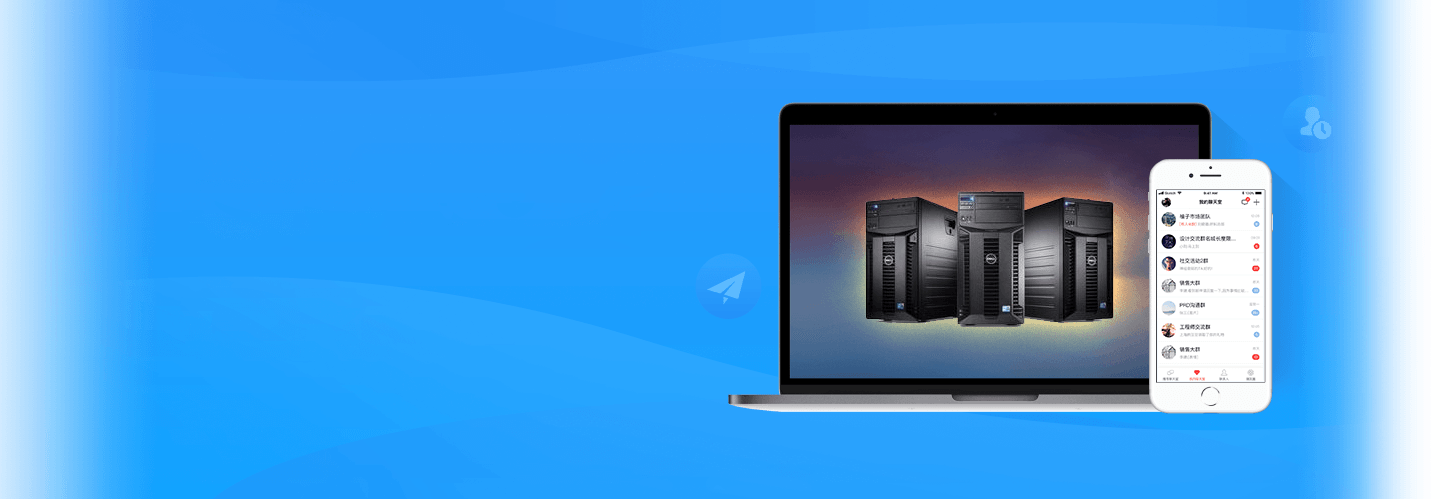
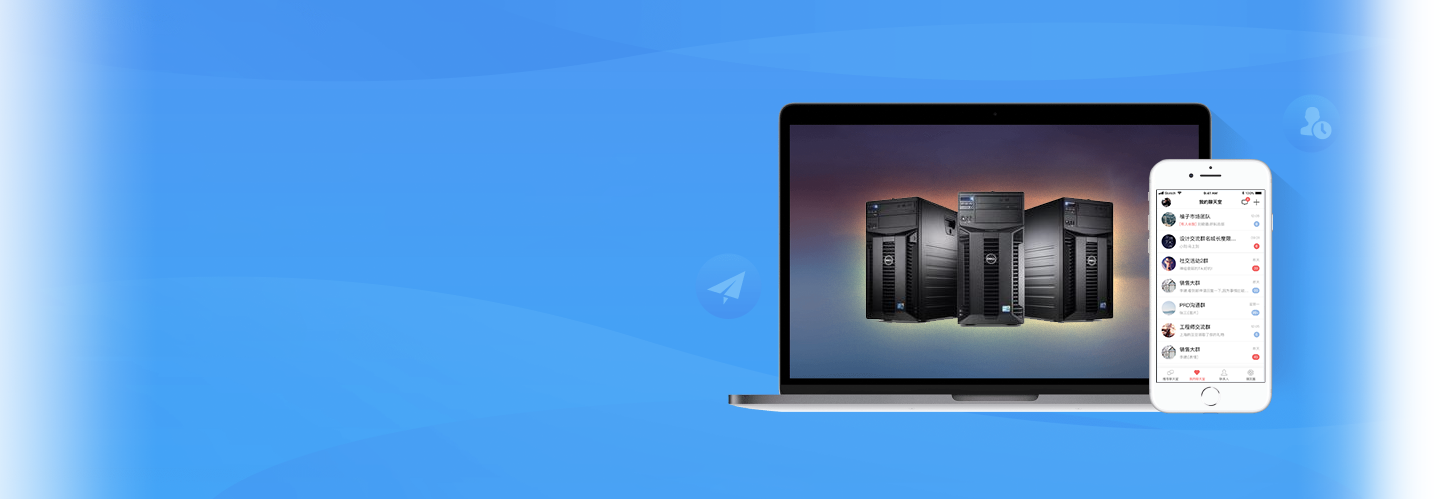
2018/08/25
2018/08/25

diff --git a/Practice4/P4_default.css b/Practice4/P4_default.css
@@ -7,7 +7,7 @@ body{margin: 0; padding: 0}
 
 /*文本样式*/
 .smallText{font: 12px 微软雅黑; text-align: center; width: 70%; margin-bottom: 20px; color: #2b2c33; font-weight: lighter}
-.importantText{font: 30px 微软雅黑; font-weight: lighter; color: #2b2c33; text-align: center}
+.importantText{font: 30px 微软雅黑; font-weight: lighter; color: #2b2c33; text-align: center;width: 70%;}
 .normalText{font: 14px 微软雅黑; text-align: center; width: 70%; margin-top: 20px; margin-bottom: 20px; color: #2b2c33}
 
 /*Flex通用布局模块*/
@@ -97,7 +97,7 @@ body{margin: 0; padding: 0}
 
 /*-------------------------------------------------------------------------------------------------------------------------------------------------*/
 /*产品功能页面的banner*/                                                                                                                 
-.PartChanpinBanner{background: #1e9cfc; margin-top: 90px}
+.PartChanpinBanner{background: #45a0f5; margin-top: 90px}
 .PartChanpinBanner .Body2{background: url(images/haiwai.png) center center no-repeat; height: 499px; background-size: auto 100%}
 .PartChanpinBanner .BodyChild{align-items: flex-start; width: 1000px}
 .PartChanpinBanner span{text-align: left; color: #ffffff}
@@ -127,4 +127,27 @@ body{margin: 0; padding: 0}
 .PartChanpin1 .Chanpin8{height: 635px; background:#d0e9ea; justify-content: flex-start}
 .PartChanpin1 .Chanpin8 img{width: 400px; margin-bottom: 30px}
 /*-------------------------------------------------------------------------------------------------------------------------------------------------*/
+
+/*-------------------------------------------------------------------------------------------------------------------------------------------------*/
+/*下载页面banner*/
+.PartDownloadBanner{background: #212337; margin-top: 90px}
+.PartDownloadBanner .Body2{background: url(images/DownLoad.png.jpg) right center no-repeat; height: 499px; background-size: 500px auto; width: 1000px; overflow: hidden}
+.PartDownloadBanner .BodyChild{align-items: flex-start}
+.PartDownloadBanner span{text-align: left; color: #ffffff}
+/*下载页面的css*/
+.PartDownload{margin-top: 90px}
+.PartDownload .BodyChild img{width: 280px}
+.PartDownload .BodyChild > div{width: 49%;  height: 1000px}
+.PartDownload .DownloadPart1{background: #faf7eb}
+.PartDownload .DownloadPart2{background: #faf7eb}
+.PartDownloadBanner .DownButton {text-decoration: none}
+.PartDownload .MobileDown{width: 80%; height: 350px; margin-top: 60px; margin-bottom: 60px}
+.PartDownload .MobileDown div{width: 130px; height: 100%; justify-content: flex-end}
+.PartDownload .MobileDown img{width: 100%; margin-bottom: 30px}
+.PartDownload .MobileDown span{width: 130px; height: 30px; background: #07c968; display: flex; align-items: center; justify-content: center; border-radius: 15px; color: #ffffff; cursor: default}
+.PartDownload .MobileDown span:hover{background: #1686d9}
+.PartDownload .importantText{font-size: 24px}
+.PartDownload .DownloadPart1 a{text-decoration: none}
+/*-------------------------------------------------------------------------------------------------------------------------------------------------*/
+
 

diff --git a/Practice4/download.html b/Practice4/download.html
@@ -30,16 +30,53 @@
                     <a href="wenti.html">常见问题</a>
                     <a href="lianxi.html">联系我们</a>
                 </div>
-                <i class="iconfont icon-liebiao" id="iconZixun">&#xe65f;</i>
+                <i class="iconfont icon-liebiao" id="iconZixun"></i>
             </div>
         </div>
     </div>
-
-    <!--网站主体部分-->
-    <div class="Flex_HC Body PartChanpin1">
+    <!--下载页面的banner-->
+    <div class="Flex_HC Body PartDownloadBanner">
         <div class="Flex_HC Body2">
-            <div class="BodyChild">
-               
+            <div class="Flex_SC BodyChild">
+                <span class="importantText">安全下载</span>
+                <span class="normalText">
+                    台式机：支持Windows、Mac OS系统<br/> 移动端：支持Android、IOS、Windos Phone等移动系统
+                </span>
+                <a href="#PartDownload" class="Flex_HC DownButton">立即下载</a>
+            </div>
+        </div>
+    </div>
+    <!--网站主体部分-->
+    <div class="Flex_HC Body PartDownload" id="PartDownload">
+        <div class="Flex_HC Body2">
+            <div class="Flex_HS BodyChild">
+                <div class="Flex_SC DownloadPart1">
+                    <span class="smallText">下载微群聊</span>
+                    <span class="importantText">手机客户端下载</span>
+                    <div class="Flex_HS MobileDown">
+                        <div class="Flex_SC">
+                            <img src="images/message-1.png" />
+                            <span class="smallText">Android</span>
+                        </div>
+                        <div class="Flex_SC">
+                            <img src="images/Part1_mobbile.png" />
+                            <span class="smallText">IOS</span>
+                        </div>
+                        <div class="Flex_SC">
+                            <img src="images/Windows phone.png" />
+                            <span class="smallText">Windows phone</span>
+                        </div>
+                    </div>
+                    <span class="importantText">使用手機到訪
+                        <a href="weiqunliao.com/dl">weiqunliao.com/dl</a> 來下載應用程式。</span>
+                </div>
+                <div class="Flex_SC DownloadPart2">
+                    <span class="smallText">信息</span>
+                    <span class="importantText">简易、可靠的传送信息</span>
+                    <span class="normalText">免费传送信息给家人和朋友。微群聊使用手机的网络连接来传送信息以避免短信费用</span>
+                    <img src="images/message.png" />
+                    <span class="smallText">*网络服务商可能会收取流量费用，请与您的网络服务商咨询有关流量费用的详情</span>
+                </div>
             </div>
         </div>
     </div>

diff --git a/Practice4/anquanxing.html b/Practice4/anquanxing.html
@@ -35,11 +35,34 @@
         </div>
     </div>
 
-    <!--网站主体部分-->
-    <div class="Flex_HC Body PartSafe">
+    <!--下载页面的banner-->
+    <div class="Flex_HC Body PartDownloadBanner">
         <div class="Flex_HC Body2">
-            <div class="BodyChild">
-               
+            <div class="Flex_SC BodyChild">
+                <span class="importantText">微群聊功能介绍</span>
+                <span class="normalText">海外服务器给您安全、稳定的聊天环境<br/> 私密的群聊空间，满足各种兴趣群体
+                </span>
+            </div>
+        </div>
+    </div>
+    <!--网站主体部分-->
+    <div class="Flex_HC Body PartDownload">
+        <div class="Flex_HC Body2">
+            <div class="Flex_HS BodyChild">
+                <div class="Flex_SC DownloadPart1">
+                    <span class="smallText">信息</span>
+                    <span class="importantText">简易、可靠的传送信息</span>
+                    <span class="normalText">免费传送信息给家人和朋友。微群聊使用手机的网络连接来传送信息以避免短信费用</span>
+                    <img src="images/message.png" />
+                    <span class="smallText">*网络服务商可能会收取流量费用，请与您的网络服务商咨询有关流量费用的详情</span>
+                </div>
+                <div class="Flex_SC DownloadPart2">
+                    <span class="smallText">信息</span>
+                    <span class="importantText">简易、可靠的传送信息</span>
+                    <span class="normalText">免费传送信息给家人和朋友。微群聊使用手机的网络连接来传送信息以避免短信费用</span>
+                    <img src="images/message.png" />
+                    <span class="smallText">*网络服务商可能会收取流量费用，请与您的网络服务商咨询有关流量费用的详情</span>
+                </div>
             </div>
         </div>
     </div>

diff --git a/Practice4/P4_mix.css b/Practice4/P4_mix.css
@@ -35,7 +35,7 @@
 /*Part-4*/
 .Part4 .BodyChild{flex-direction: column; height: auto}
 .Part4 .BodyChild .Flex_SE, .Part4 .BodyChild .Flex_SC{width: 100%; height: 580px} /*上下的box设定宽度和背景颜色*/
-.Part4 img{width: 250px}/*图片宽度*/
+.Part4 img{width: 230px}/*图片宽度*/
 
 /*Part-5*/
 .Part5{margin-top: 0}
@@ -50,9 +50,21 @@
 .PartChanpin1 .BodyChild div{width: 100%; margin-top: 0} /*去除第一部分的子元素上边距*/
 .PartChanpin1 .BodyChild{height: auto; width: 100%} /*第一部分整体高度自适应*/
 .PartChanpin1{margin-top: 70px;}/*第一部分整体的上边距*/
-.PartChanpin1 .BodyChild img{width: 280px}
+.PartChanpin1 .BodyChild img{width: 230px}
 .PartChanpin1 .normalText{width: 90%}
 .PartChanpin1 .Chanpin5 img{width: 100px}
 
 /*产品功能页面的banner*/
 .PartChanpinBanner{display: none}
+
+/*下载页面的css*/
+.PartDownload{margin-top: 0}
+.PartDownload .BodyChild{flex-direction: column; width: 100%}
+.PartDownload .BodyChild div{width: 100%}
+.PartDownloadBanner{margin-top: 70px}
+.PartDownloadBanner .Body2{height: 600px; background-size: 400px auto; width: 100%; background-position: center 230px; flex-direction: column; justify-content: flex-start}
+.PartDownloadBanner .BodyChild{align-items: center; margin-top: 50px}
+.PartDownloadBanner .BodyChild span{text-align: center}
+
+#VideBox{width: 230px; height: 230px} /*动画播放区域*/
+

diff --git a/Practice4/P4_750-1080.css b/Practice4/P4_750-1080.css
@@ -29,6 +29,14 @@
 .PartChanpin1 .BodyChild div{width: 100%; margin-top: 0} /*去除第一部分的子元素上边距*/
 .PartChanpin1 .BodyChild{height: auto; width: 100%} /*第一部分整体高度自适应*/
 .PartChanpin1{margin-top: 70px;}/*第一部分整体的上边距*/
-
-/*产品功能页面的banner*/
 .PartChanpinBanner{display: none}
+
+/*下载页面的css*/
+.PartDownload{margin-top: 0}
+.PartDownload .BodyChild{flex-direction: column; width: 100%}
+.PartDownload .BodyChild div{width: 100%}
+.PartDownload .MobileDown div{width: 130px}
+.PartDownloadBanner{margin-top: 70px}
+.PartDownloadBanner .Body2{height: 600px; background-size: 500px auto; width: 100%; background-position: center 160px; flex-direction: column; justify-content: flex-start}
+.PartDownloadBanner .BodyChild{align-items: center; margin-top: 50px}
+.PartDownloadBanner .BodyChild span{text-align: center}

diff --git a/Practice4/P4_480-750.css b/Practice4/P4_480-750.css
@@ -48,3 +48,12 @@
 
 /*产品功能页面的banner*/
 .PartChanpinBanner{display: none}
+
+/*下载页面的css*/
+.PartDownload{margin-top: 0}
+.PartDownload .BodyChild{flex-direction: column; width: 100%}
+.PartDownload .BodyChild div{width: 100%}
+.PartDownloadBanner{margin-top: 70px}
+.PartDownloadBanner .Body2{height: 600px; background-size: 500px auto; width: 100%; background-position: center 160px; flex-direction: column; justify-content: flex-start}
+.PartDownloadBanner .BodyChild{align-items: center; margin-top: 50px}
+.PartDownloadBanner .BodyChild span{text-align: center}
